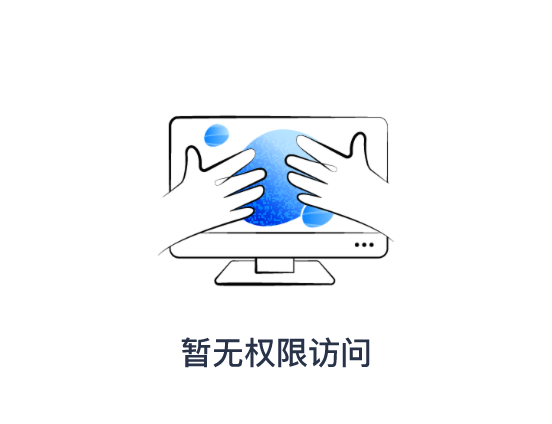
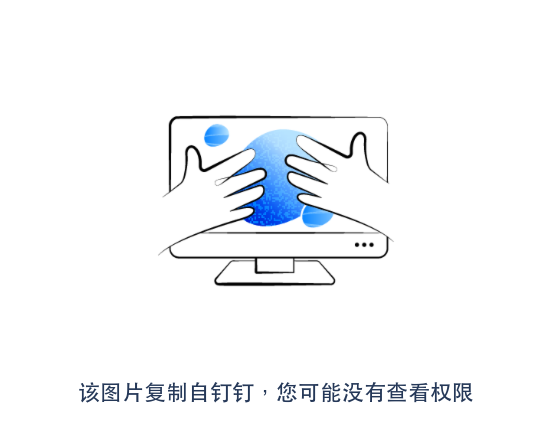
fix(ops): improve ding-talk image fallback and ticket search

Changed region(s): [[0.1232, 0.7972, 0.8623, 0.9505]]

diff --git a/apps/web/src/view/Tickets/TicketsPage.tsx b/apps/web/src/view/Tickets/TicketsPage.tsx
@@ -25,11 +25,13 @@ export default function TicketsPage({ isAdmin = false }: TicketsPageProps) {
 	const [tickets, setTickets] = useState<OpsTicket[]>([]);
 	const [loading, setLoading] = useState(false);
 	const [scope, setScope] = useState<OpsTicketScope>("all");
+	const [ticketSearch, setTicketSearch] = useState("");
 	const [titleSearch, setTitleSearch] = useState("");
 	const [projectSearch, setProjectSearch] = useState("");
 	const [requesterSearch, setRequesterSearch] = useState("");
 	const [ownerSearch, setOwnerSearch] = useState("");
 	const [debouncedTitleSearch, setDebouncedTitleSearch] = useState("");
+	const [debouncedTicketSearch, setDebouncedTicketSearch] = useState("");
 	const [debouncedProjectSearch, setDebouncedProjectSearch] = useState("");
 	const [debouncedRequesterSearch, setDebouncedRequesterSearch] = useState("");
 	const [debouncedOwnerSearch, setDebouncedOwnerSearch] = useState("");
@@ -96,6 +98,7 @@ export default function TicketsPage({ isAdmin = false }: TicketsPageProps) {
 				scope,
 				page,
 				pageSize,
+				ticket: debouncedTicketSearch.trim() || undefined,
 				title: debouncedTitleSearch.trim() || undefined,
 				project: debouncedProjectSearch.trim() || undefined,
 				requester: debouncedRequesterSearch.trim() || undefined,
@@ -119,10 +122,11 @@ export default function TicketsPage({ isAdmin = false }: TicketsPageProps) {
 	useEffect(() => {
 		void loadTickets();
 		// eslint-disable-next-line react-hooks/exhaustive-deps
-	}, [scope, page, pageSize, statusFilter, priorityFilter, segmentFilter, overdueOnly, sortBy, sortOrder, debouncedTitleSearch, debouncedProjectSearch, debouncedRequesterSearch, debouncedOwnerSearch]);
+	}, [scope, page, pageSize, statusFilter, priorityFilter, segmentFilter, overdueOnly, sortBy, sortOrder, debouncedTitleSearch, debouncedTicketSearch, debouncedProjectSearch, debouncedRequesterSearch, debouncedOwnerSearch]);
 	// 搜索去抖(并回到第 1 页)
 	useEffect(() => {
 		const t = setTimeout(() => {
+			setDebouncedTicketSearch(ticketSearch);
 			setDebouncedTitleSearch(titleSearch);
 			setDebouncedProjectSearch(projectSearch);
 			setDebouncedRequesterSearch(requesterSearch);
@@ -131,7 +135,7 @@ export default function TicketsPage({ isAdmin = false }: TicketsPageProps) {
 		}, 400);
 		return () => clearTimeout(t);
 		// eslint-disable-next-line react-hooks/exhaustive-deps
-	}, [titleSearch, projectSearch, requesterSearch, ownerSearch]);
+	}, [ticketSearch, titleSearch, projectSearch, requesterSearch, ownerSearch]);
 	// 环节筛选下拉:列出全部环节(不只当前数据里出现的)
 	useEffect(() => {
 		opsApi
@@ -539,6 +543,7 @@ export default function TicketsPage({ isAdmin = false }: TicketsPageProps) {
 				page={page}
 				pageSize={pageSize}
 				total={total}
+				ticketSearch={ticketSearch}
 				titleSearch={titleSearch}
 				projectSearch={projectSearch}
 				requesterSearch={requesterSearch}
@@ -554,6 +559,10 @@ export default function TicketsPage({ isAdmin = false }: TicketsPageProps) {
 				priorityControl={priorityControl}
 				onTitleSearchChange={(value) => {
 					setTitleSearch(value);
+					setPage(1);
+				}}
+				onTicketSearchChange={(value) => {
+					setTicketSearch(value);
 					setPage(1);
 				}}
 				onProjectSearchChange={(value) => {

diff --git a/apps/web/src/view/Tickets/components/table/TicketTable.tsx b/apps/web/src/view/Tickets/components/table/TicketTable.tsx
@@ -15,6 +15,7 @@ type TicketTableProps = {
 	page: number;
 	pageSize: number;
 	total: number;
+	ticketSearch: string;
 	titleSearch: string;
 	projectSearch: string;
 	requesterSearch: string;
@@ -37,6 +38,7 @@ type TicketTableProps = {
 	onSegmentFilterChange: (value: number[]) => void;
 	onSortChange: (sortBy: "createdAt" | "remaining" | "", sortOrder: "asc" | "desc" | "") => void;
 	onPageChange: (page: number, pageSize: number) => void;
+	onTicketSearchChange: (value: string) => void;
 	onOpen: (ticket: OpsTicket) => void;
 	onEditAdminNote?: (ticket: OpsTicket) => void;
 };
@@ -109,6 +111,7 @@ export default function TicketTable({
 	page,
 	pageSize,
 	total,
+	ticketSearch,
 	titleSearch,
 	projectSearch,
 	requesterSearch,
@@ -131,6 +134,7 @@ export default function TicketTable({
 	onSegmentFilterChange,
 	onSortChange,
 	onPageChange,
+	onTicketSearchChange,
 	onOpen,
 	onEditAdminNote = () => {},
 }: TicketTableProps) {
@@ -154,6 +158,9 @@ export default function TicketTable({
 			title: "单号",
 			dataIndex: "id",
 			width: 116,
+			filteredValue: ticketSearch ? [ticketSearch] : null,
+			filterIcon: (filtered) => searchIcon(filtered),
+			filterDropdown: ({ confirm }) => searchDropdown(ticketSearch, "搜索 单号", onTicketSearchChange, confirm),
 			render: (id: string) => (
 				<Tooltip title={id}>
 					<span style={{ fontFamily: "monospace", fontSize: 12, color: "#475569" }}>#{shortNo(id)}</span>

diff --git a/apps/web/src/api/modules/ops.ts b/apps/web/src/api/modules/ops.ts
@@ -502,6 +502,7 @@ export const opsApi = {
 			page?: number;
 			pageSize?: number;
 			q?: string;
+			ticket?: string;
 			title?: string;
 			project?: string;
 			requester?: string;
@@ -519,6 +520,7 @@ export const opsApi = {
 		if (params.page) qs.set("page", String(params.page));
 		if (params.pageSize) qs.set("pageSize", String(params.pageSize));
 		if (params.q) qs.set("q", params.q);
+		if (params.ticket) qs.set("ticket", params.ticket);
 		if (params.title) qs.set("title", params.title);
 		if (params.project) qs.set("project", params.project);
 		if (params.requester) qs.set("requester", params.requester);

diff --git a/apps/web/src/utils/imageLoadFallback.ts b/apps/web/src/utils/imageLoadFallback.ts
@@ -14,7 +14,7 @@ function replaceFailedImage(image: HTMLImageElement) {
 	if (image.dataset.opsImageFallback === "true") return;
 	image.dataset.opsImageFallback = "true";
 	const host = getImageHost(image.currentSrc || image.src);
-	const message = RESTRICTED_IMAGE_HOSTS.has(host) ? "钉钉图片无权限或已过期" : "图片加载失败，可能无权限";
+	const message = RESTRICTED_IMAGE_HOSTS.has(host) ? "该图片复制自钉钉，您可能没有查看权限" : "图片加载失败，可能无权限";
 	image.alt = message;
 	image.classList.add("ops-image-load-failed");
 	image.src = noPermissionImage;

diff --git a/apps/web/src/view/Ops/RichText.css b/apps/web/src/view/Ops/RichText.css
@@ -110,7 +110,9 @@
   margin: 6px 0;
 }
 .ops-rich img.ops-image-load-failed {
-  background: #fff;
+	width: 280px;
+	max-width: 100%;
+	background: #fff;
   object-fit: contain;
 }
 .ops-editor .ProseMirror img {
